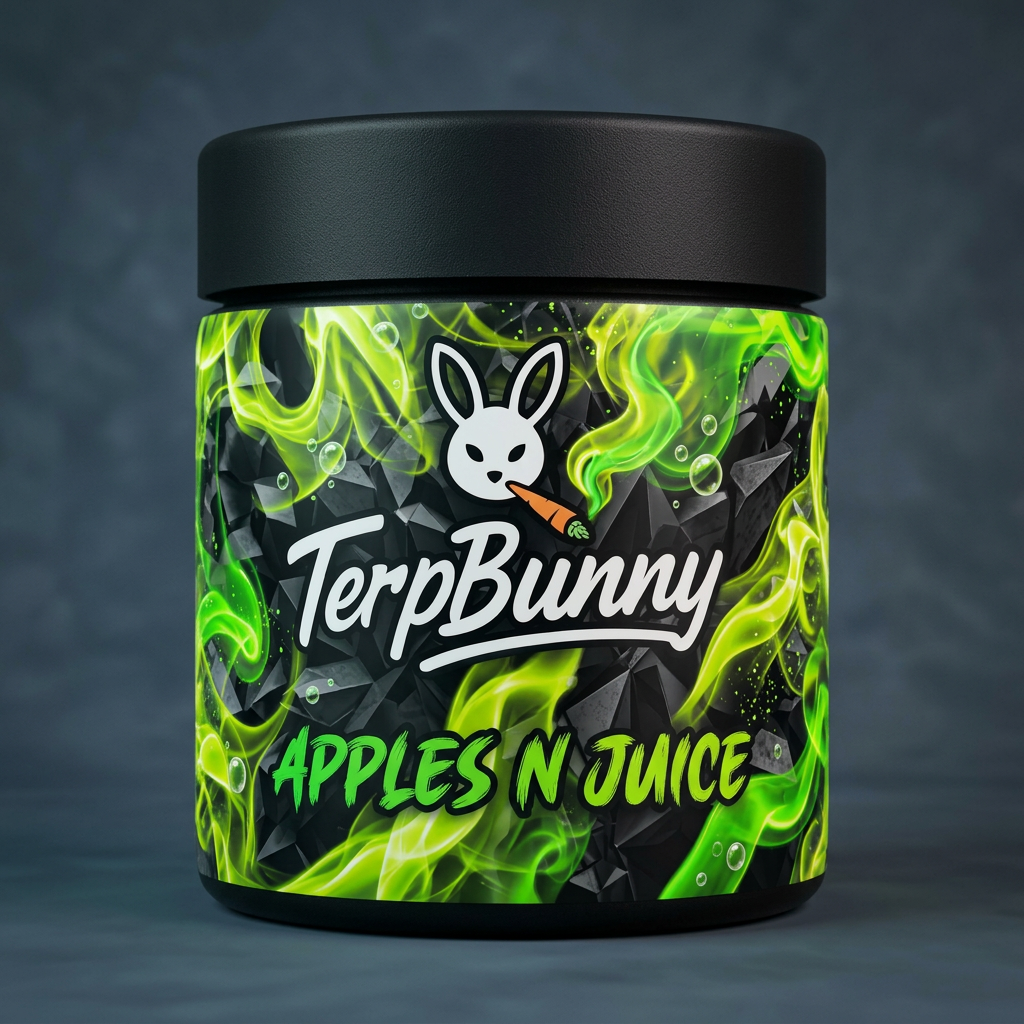
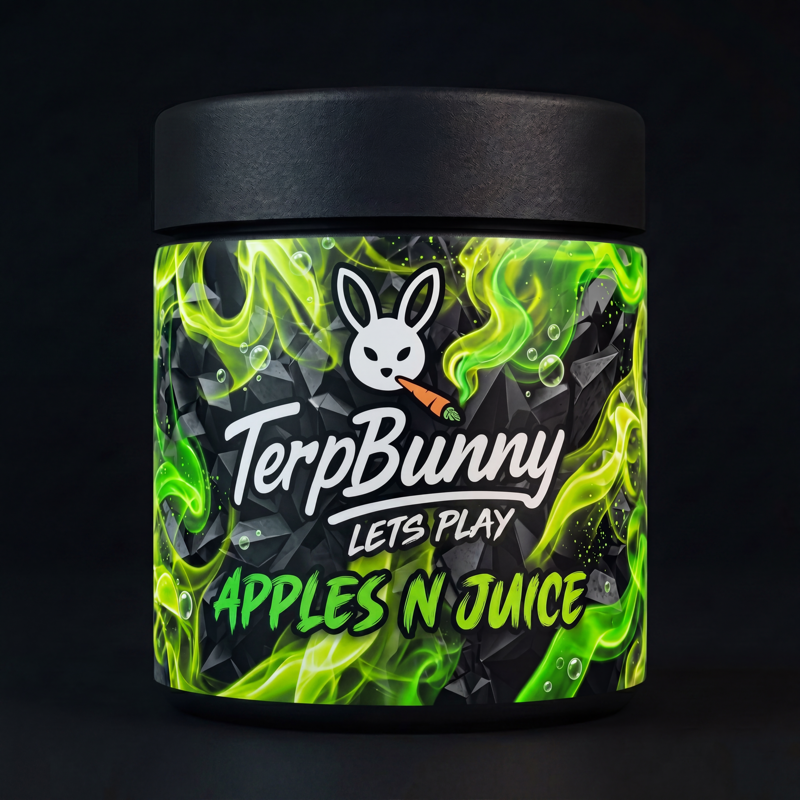
Add 9 more LETS PLAY jars + Ice Cream Cake and Skywalker OG images
Replaced 7 more strains with LETS PLAY branding: Baby Zereal, Apples N Juice,
Runtz, Animal Heat, Tamalez, Lemon Drop, Sherbert Pie. Added brand new jar
images for Ice Cream Cake and Skywalker OG (previously had no images).
14 of 22 strains now have LETS PLAY branded jars.

diff --git a/src/app/strains/[slug]/page.tsx b/src/app/strains/[slug]/page.tsx
@@ -24,6 +24,8 @@ const STRAIN_IMAGES: Record<string, string> = {
   "sour-cream": "/images/sour-cream.jpeg",
   "georgia-heat": "/images/georgia-heat.png",
   "bubble-gum-runtz": "/images/bubble-gum-runtz.png",
+  "ice-cream-cake": "/images/ice-cream-cake.png",
+  "skywalker-og": "/images/skywalker-og.png",
 };
 
 const IN_STOCK = ["lemon-drop", "runtz", "la-rosa", "tamalez", "garlic-cookies", "wedding-cake", "ice-cream-cake"];

diff --git a/src/app/strains/page.tsx b/src/app/strains/page.tsx
@@ -22,6 +22,8 @@ const STRAIN_IMAGES: Record<string, string> = {
   "sour-cream": "/images/sour-cream.jpeg",
   "georgia-heat": "/images/georgia-heat.png",
   "bubble-gum-runtz": "/images/bubble-gum-runtz.png",
+  "ice-cream-cake": "/images/ice-cream-cake.png",
+  "skywalker-og": "/images/skywalker-og.png",
 };
 
 const IN_STOCK = ["lemon-drop", "runtz", "la-rosa", "tamalez", "garlic-cookies", "wedding-cake", "ice-cream-cake"];

diff --git a/src/app/page.tsx b/src/app/page.tsx
@@ -20,6 +20,8 @@ const STRAIN_IMAGES: Record<string, string> = {
   "sour-cream": "/images/sour-cream.jpeg",
   "georgia-heat": "/images/georgia-heat.png",
   "bubble-gum-runtz": "/images/bubble-gum-runtz.png",
+  "ice-cream-cake": "/images/ice-cream-cake.png",
+  "skywalker-og": "/images/skywalker-og.png",
 };
 
 const FEATURED_STRAINS = [

diff --git a/src/app/cart/page.tsx b/src/app/cart/page.tsx
@@ -23,6 +23,8 @@ const STRAIN_IMAGES: Record<string, string> = {
   "sour-cream": "/images/sour-cream.jpeg",
   "georgia-heat": "/images/georgia-heat.png",
   "bubble-gum-runtz": "/images/bubble-gum-runtz.png",
+  "ice-cream-cake": "/images/ice-cream-cake.png",
+  "skywalker-og": "/images/skywalker-og.png",
 };
 
 interface CartItem {
